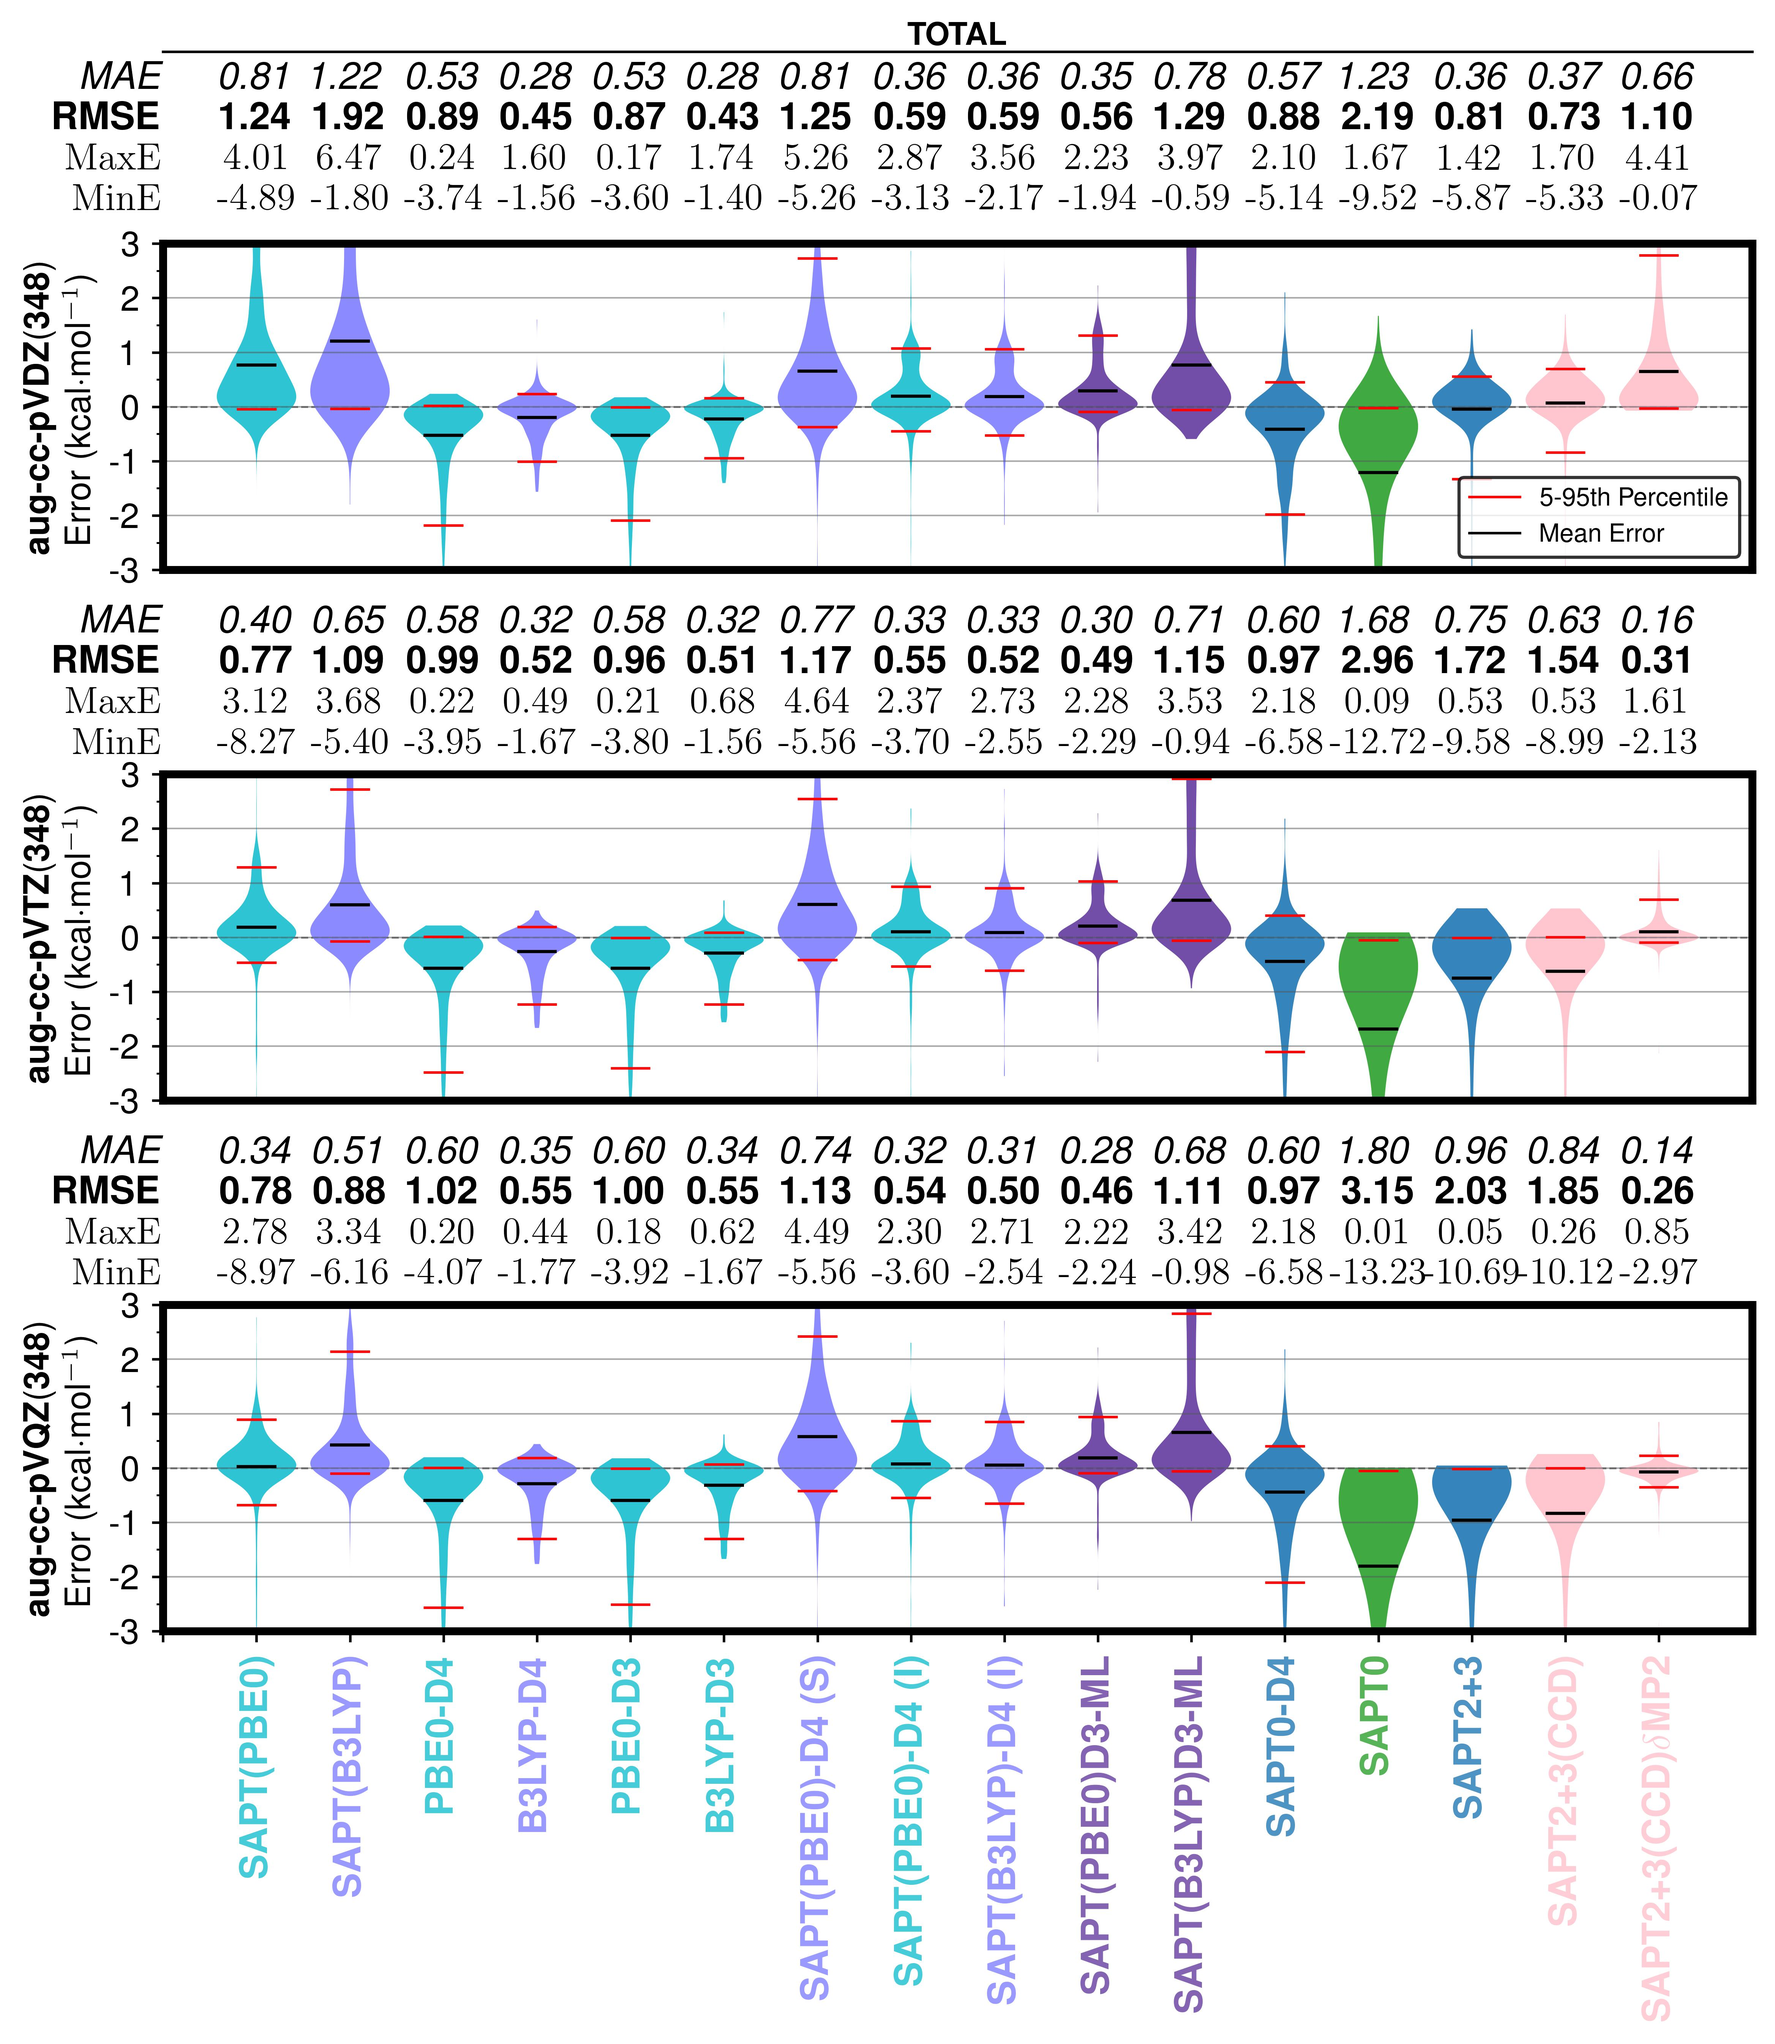
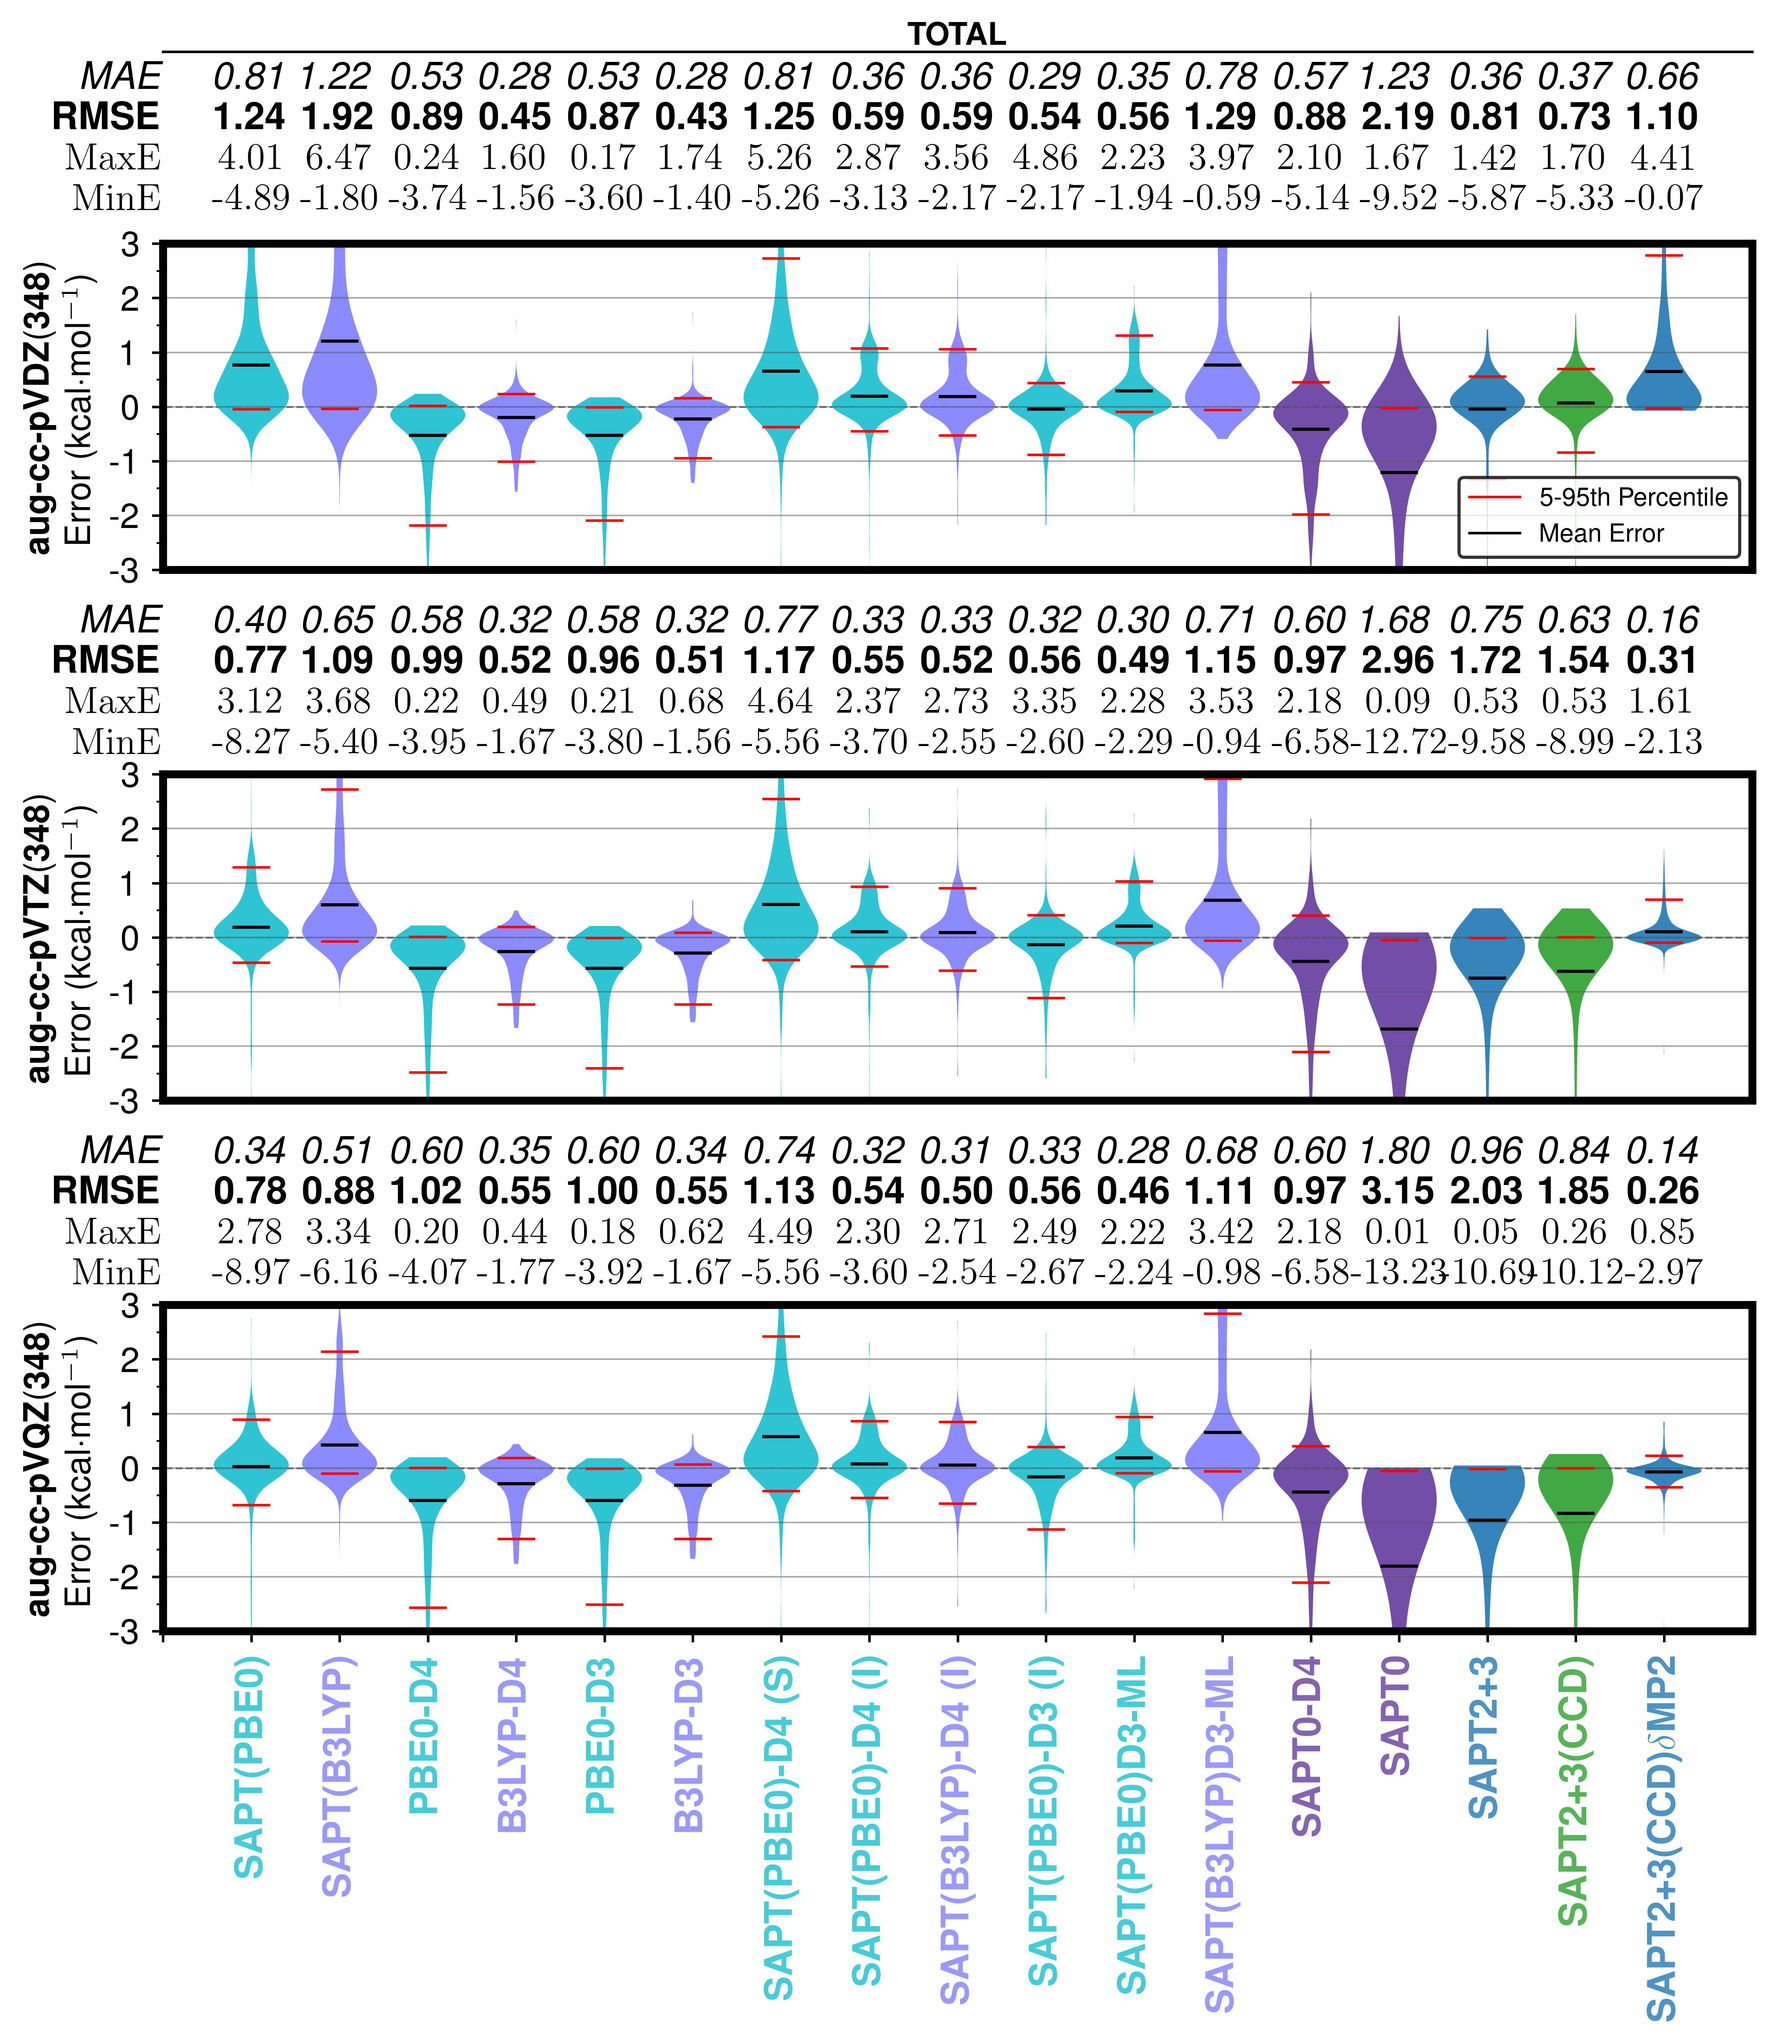
added dftd3

Changed region(s): [[0.1249, 0.0312, 0.9683, 0.9991], [0.1249, 0.8117, 0.1562, 0.9366]]

diff --git a/src/plotting.py b/src/plotting.py
@@ -50,8 +50,11 @@ colors_total_saptdftd4 = [
         # Medium_Sea_Green,
         # INDIGO,
         TEAL,
+        LIGHT_PURPLE,
+        TEAL,
         TEAL,
         LIGHT_PURPLE,
+        TEAL,
         TEAL,
         LIGHT_PURPLE,
         PURPLE,
@@ -4270,6 +4273,11 @@ def violin_plots_multi(df, limit_to_column_not_nan=None, slide=True):
         "SAPT(DFT)+D4 TOTAL ENERGY",
         "SAPT(PBE0)-D4 INTER TOTAL ENERGY",
         "SAPT(B3LYP)-D4 INTER TOTAL ENERGY",
+
+        "SAPT(PBE0)-D3 INTER TOTAL ENERGY",
+        "SAPT(B3LYP)-D3 INTER TOTAL ENERGY",
+        "PBE0-D3 TOTAL ENERGY",
+        "B3LYP-D3 TOTAL ENERGY",
     ]
     reference = "benchmark ref energy"
     copy_cols_start = [
@@ -4319,6 +4327,8 @@ def violin_plots_multi(df, limit_to_column_not_nan=None, slide=True):
     df_adz.columns = [c.replace(" adz", "") for c in df_adz.columns]
     df_adz.rename(
         columns={
+            "PBE0-D3 TOTAL ENERGY adz": "PBE0-D3 TOTAL ENERGY",
+            "B3LYP-D3 TOTAL ENERGY adz": "B3LYP-D3 TOTAL ENERGY",
             "SAPT_DFT_D4_pbe0_adz_total": "PBE0-D4 TOTAL ENERGY",
             "SAPT_DFT_pbe0_adz_total": "SAPT(DFT) [PBE0] TOTAL ENERGY",
             "SAPT_DFT_D4_b2plyp_adz_total": "B2PLYP-D4 TOTAL ENERGY",
@@ -4337,6 +4347,8 @@ def violin_plots_multi(df, limit_to_column_not_nan=None, slide=True):
     df_atz.columns = [c.replace(" atz", "") for c in df_atz.columns]
     df_atz.rename(
         columns={
+            "PBE0-D3 TOTAL ENERGY atz": "PBE0-D3 TOTAL ENERGY",
+            "B3LYP-D3 TOTAL ENERGY atz": "B3LYP-D3 TOTAL ENERGY",
             "SAPT_DFT_D4_pbe0_atz_total": "PBE0-D4 TOTAL ENERGY",
             "SAPT_DFT_pbe0_atz_total": "SAPT(DFT) [PBE0] TOTAL ENERGY",
             "SAPT_DFT_D4_b2plyp_atz_total": "B2PLYP-D4 TOTAL ENERGY",
@@ -4393,6 +4405,8 @@ def violin_plots_multi(df, limit_to_column_not_nan=None, slide=True):
         # DFT-D4
         "PBE0-D4": "PBE0-D4 TOTAL ENERGY Error",
         "B3LYP-D4": "B3LYP-D4 TOTAL ENERGY Error",
+        "PBE0-D3": "PBE0-D3 TOTAL ENERGY Error",
+        "B3LYP-D3": "B3LYP-D3 TOTAL ENERGY Error",
         # "B2PLYP-D4": "B2PLYP-D4 TOTAL ENERGY Error",
         # "WB97X-D4": "WB97X-D4 TOTAL ENERGY Error",
         # SAPT(DFT) D's
@@ -4400,6 +4414,7 @@ def violin_plots_multi(df, limit_to_column_not_nan=None, slide=True):
         "SAPT(PBE0)-D4 (S)": "SAPT(DFT)-D4 TOTAL ENERGY Error",
         "SAPT(PBE0)-D4 (I)": "SAPT(PBE0)-D4 INTER TOTAL ENERGY Error",
         "SAPT(B3LYP)-D4 (I)": "SAPT(B3LYP)-D4 INTER TOTAL ENERGY Error",
+        "SAPT(PBE0)-D3 (I)": "SAPT(PBE0)-D3 INTER TOTAL ENERGY Error",
         # "SAPT(DFT)+D4": "SAPT(DFT)+D4 TOTAL ENERGY Error",
         "SAPT(PBE0)D3-ML": "SAPT(DFT)D3-ML TOTAL ENERGY Error",
         "SAPT(B3LYP)D3-ML": "SAPT(B3LYP)D3-ML TOTAL ENERGY Error",
@@ -4834,8 +4849,12 @@ def violin_plots_multi_subset(df, limit_to_column_not_nan=None):
 
         # "PBE0-D4 DISP ENERGY",
         # "B3LYP-D4 DISP ENERGY",
-        "PBE0-D3 DISP ENERGY",
-        "B3LYP-D3 DISP ENERGY",
+        # "PBE0-D3 DISP ENERGY",
+        # "B3LYP-D3 DISP ENERGY",
+        "SAPT(PBE0)-D3 INTER TOTAL ENERGY",
+        "SAPT(B3LYP)-D3 INTER TOTAL ENERGY",
+        "PBE0-D3 TOTAL ENERGY",
+        "B3LYP-D3 TOTAL ENERGY",
     ]
     reference = "benchmark ref energy"
     copy_cols_start = [
@@ -4881,19 +4900,19 @@ def violin_plots_multi_subset(df, limit_to_column_not_nan=None):
         "SAPT_DFT_wb97x_atz_total",
         "SAPT_DFT_D4_wb97x_aqz_total",
         "SAPT_DFT_wb97x_aqz_total",
-        "PBE0-D3 TOTAL ENERGY adz",
-        "B3LYP-D3 TOTAL ENERGY adz",
-        "PBE0-D3 TOTAL ENERGY atz",
-        "B3LYP-D3 TOTAL ENERGY atz",
-        "PBE0-D3 TOTAL ENERGY aqz",
-        "B3LYP-D3 TOTAL ENERGY aqz",
+        # "PBE0-D3 TOTAL ENERGY adz",
+        # "B3LYP-D3 TOTAL ENERGY adz",
+        # "PBE0-D3 TOTAL ENERGY atz",
+        # "B3LYP-D3 TOTAL ENERGY atz",
+        # "PBE0-D3 TOTAL ENERGY aqz",
+        # "B3LYP-D3 TOTAL ENERGY aqz",
 
-        "PBE0-D3 DISP ENERGY adz",
-        "B3LYP-D3 DISP ENERGY adz",
-        "PBE0-D3 DISP ENERGY atz",
-        "B3LYP-D3 DISP ENERGY atz",
-        "PBE0-D3 DISP ENERGY aqz",
-        "B3LYP-D3 DISP ENERGY aqz",
+        # "PBE0-D3 DISP ENERGY adz",
+        # "B3LYP-D3 DISP ENERGY adz",
+        # "PBE0-D3 DISP ENERGY atz",
+        # "B3LYP-D3 DISP ENERGY atz",
+        # "PBE0-D3 DISP ENERGY aqz",
+        # "B3LYP-D3 DISP ENERGY aqz",
 
     ]
     copy_cols = copy_cols_start.copy()
@@ -4963,8 +4982,8 @@ def violin_plots_multi_subset(df, limit_to_column_not_nan=None):
     local_methods = [
         "PBE0-D4 TOTAL ENERGY",
         "B3LYP-D4 TOTAL ENERGY",
-        "PBE0-D3 TOTAL ENERGY",
-        "B3LYP-D3 TOTAL ENERGY",
+        # "PBE0-D3 TOTAL ENERGY",
+        # "B3LYP-D3 TOTAL ENERGY",
         "B2PLYP-D4 TOTAL ENERGY",
         "WB97X-D4 TOTAL ENERGY",
         "SAPT(DFT) [PBE0] TOTAL ENERGY",
@@ -4978,6 +4997,7 @@ def violin_plots_multi_subset(df, limit_to_column_not_nan=None):
     df_atz[reference] = df_adz[reference].astype(float)
     df_aqz[reference] = df_adz[reference].astype(float)
     for i in sapt_methods:
+        print(i)
         df_adz[i] = df_adz[i].astype(float)
         df_atz[i] = df_atz[i].astype(float)
         df_aqz[i] = df_aqz[i].astype(float)
@@ -5028,6 +5048,7 @@ def violin_plots_multi_subset(df, limit_to_column_not_nan=None):
         "SAPT(PBE0)-D4 (S)": "SAPT(DFT)-D4 TOTAL ENERGY Error",
         "SAPT(PBE0)-D4 (I)": "SAPT(PBE0)-D4 INTER TOTAL ENERGY Error",
         "SAPT(B3LYP)-D4 (I)": "SAPT(B3LYP)-D4 INTER TOTAL ENERGY Error",
+        "SAPT(PBE0)-D3 (I)": "SAPT(PBE0)-D3 INTER TOTAL ENERGY Error",
         # "SAPT(DFT)+D4": "SAPT(DFT)+D4 TOTAL ENERGY Error",
         "SAPT(PBE0)D3-ML": "SAPT(DFT)D3-ML TOTAL ENERGY Error",
         "SAPT(B3LYP)D3-ML": "SAPT(B3LYP)D3-ML TOTAL ENERGY Error",
@@ -9279,10 +9300,10 @@ def plot_LoS_saptdft(
         # violin_plots_multi_individual(df)
         # violin_plots_multi_components_df_individual(df)
         # violin_plots_multi_subset_individual(df)
-        # violin_plots_multi(df)
-        violin_plots_multi_components(df, limit_to_column_not_nan="D3-ML")
-        violin_plots_multi_components_subset(df, limit_to_column_not_nan="D3-ML")
-        # violin_plots_multi_subset(df)
+        violin_plots_multi(df)
+        violin_plots_multi_subset(df)
+        # violin_plots_multi_components(df, limit_to_column_not_nan="D3-ML")
+        # violin_plots_multi_components_subset(df, limit_to_column_not_nan="D3-ML")
     else:
         # return
         # return
